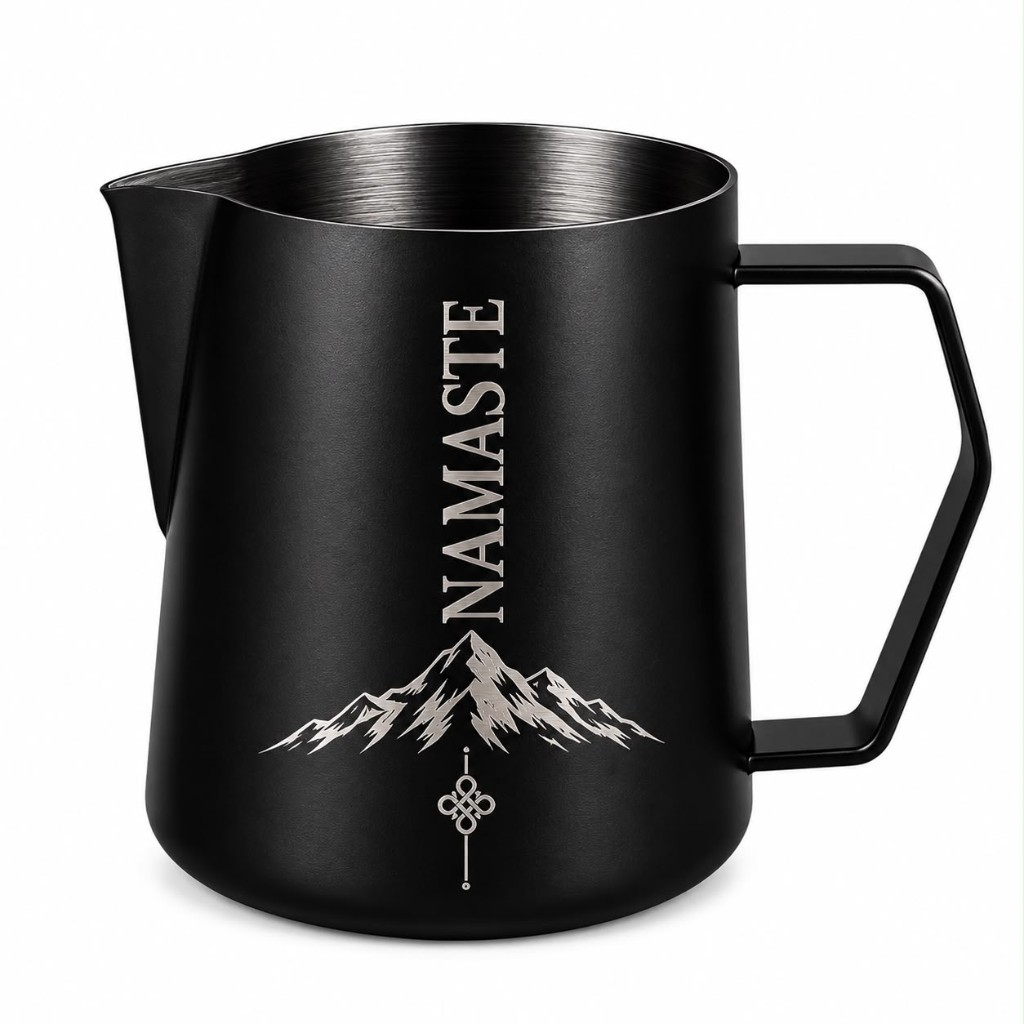
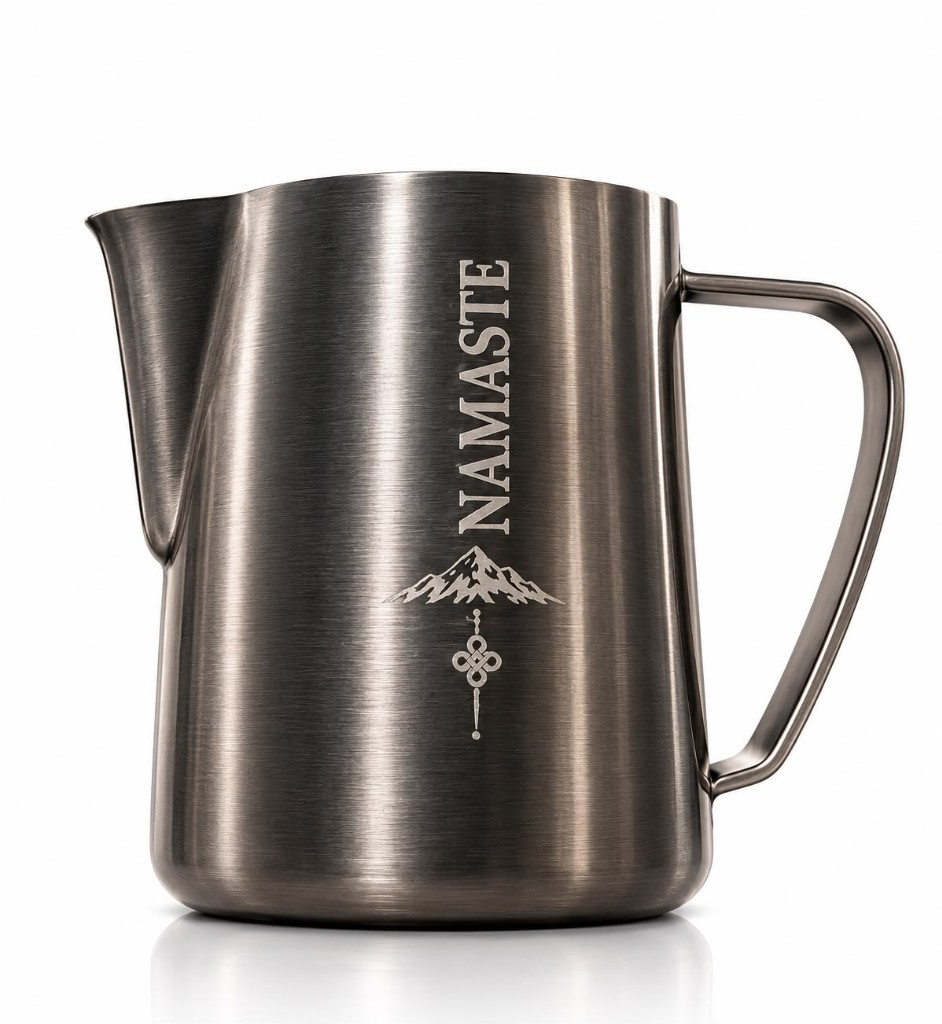
Show Himba Gear and Namaste pitchers at 150 AED in 700 ml and 615 ml.

diff --git a/himba-coffee/components/store/StoreCatalog.tsx b/himba-coffee/components/store/StoreCatalog.tsx
@@ -131,6 +131,7 @@ export function StoreCatalog() {
   const [tab, setTab] = useState<ArrivalTab>("featured");
   const [open, setOpen] = useState<CatalogProduct | null>(null);
   const [activeImage, setActiveImage] = useState("");
+  const [selection, setSelection] = useState<Record<string, string>>({});
 
   const endOfDay = useMemo(() => {
     const date = new Date();
@@ -168,10 +169,16 @@ export function StoreCatalog() {
 
   function openProduct(product: CatalogProduct) {
     setActiveImage(product.image);
+    setSelection({});
     setOpen(product);
   }
 
-  const orderUrl = open ? buildWhatsAppCatalogOrderUrl(open) : "#";
+  const missingSize = Boolean(
+    open?.options?.some((opt) => opt.required && !selection[opt.kind]),
+  );
+  const orderUrl = open
+    ? buildWhatsAppCatalogOrderUrl(open, selection)
+    : "#";
 
   return (
     <div className="bg-[#F3F3F3] text-[#1a1a1a]">
@@ -245,8 +252,8 @@ export function StoreCatalog() {
               </div>
             </div>
             <Image
-              src="/products/pitcher-yak.png"
-              alt="Himba Himalayan Yak pitcher"
+              src="/products/pitcher-himba-gear-lifestyle.jpg"
+              alt="Himba Gear stainless pitcher"
               width={180}
               height={220}
               unoptimized
@@ -405,11 +412,53 @@ export function StoreCatalog() {
             <p className="mb-6 text-xl font-medium text-[#F2F2F2]">
               {money(open.priceAed)}
             </p>
+            {open.options?.map((opt) => (
+              <div key={opt.kind} className="mb-6">
+                <p className="mb-3 text-[11px] tracking-[0.2em] text-white/45 uppercase">
+                  {opt.label}
+                </p>
+                <div className="flex flex-wrap gap-2">
+                  {opt.choices.map((choice) => {
+                    const selected = selection[opt.kind] === choice.label;
+                    return (
+                      <button
+                        key={choice.id}
+                        type="button"
+                        aria-pressed={selected}
+                        onClick={() =>
+                          setSelection((prev) => ({
+                            ...prev,
+                            [opt.kind]: choice.label,
+                          }))
+                        }
+                        className={cn(
+                          "inline-flex h-10 items-center border px-4 text-xs tracking-[0.14em] uppercase",
+                          selected
+                            ? "border-white bg-white text-[#0A0A0A]"
+                            : "border-white/20 text-white/70 hover:border-white/45 hover:text-white",
+                        )}
+                      >
+                        {choice.label}
+                      </button>
+                    );
+                  })}
+                </div>
+              </div>
+            ))}
             <a
-              href={orderUrl}
+              href={missingSize ? undefined : orderUrl}
               target="_blank"
               rel="noopener noreferrer"
-              className="inline-flex h-12 w-full items-center justify-center gap-2 bg-[#F2F2F2] text-[11px] font-medium tracking-[0.16em] text-[#0A0A0A] uppercase hover:bg-white"
+              aria-disabled={missingSize}
+              onClick={(event) => {
+                if (missingSize) event.preventDefault();
+              }}
+              className={cn(
+                "inline-flex h-12 w-full items-center justify-center gap-2 text-[11px] font-medium tracking-[0.16em] uppercase",
+                missingSize
+                  ? "cursor-not-allowed border border-white/10 text-white/25"
+                  : "bg-[#F2F2F2] text-[#0A0A0A] hover:bg-white",
+              )}
             >
               <MessageCircle className="h-4 w-4" />
               Order via WhatsApp

diff --git a/himba-coffee/lib/catalog.ts b/himba-coffee/lib/catalog.ts
@@ -46,6 +46,18 @@ export const PRODUCT_CATEGORIES: ProductCategory[] = [
   },
 ];
 
+const PITCHER_SIZES: CatalogProduct["options"] = [
+  {
+    kind: "size",
+    label: "Size",
+    required: true,
+    choices: [
+      { id: "700", label: "700 ml" },
+      { id: "615", label: "615 ml" },
+    ],
+  },
+];
+
 export const CATALOG_PRODUCTS: CatalogProduct[] = [
   {
     id: "tumbler-matte-black",
@@ -108,22 +120,30 @@ export const CATALOG_PRODUCTS: CatalogProduct[] = [
   {
     id: "pitcher-namaste",
     name: "Pitcher — Namaste",
-    priceAed: 170,
-    category: "brewing",
-    description:
-      "Matte black milk frothing pitcher with laser-etched Namaste mountain mark — built for latte art.",
-    image: "/products/pitcher-namaste.png",
-    gallery: ["/products/pitcher-namaste.png"],
-  },
-  {
-    id: "pitcher-yak",
-    name: "Pitcher — Himalayan Yak",
     priceAed: 150,
     category: "brewing",
     description:
-      "Matte black milk frothing pitcher with a white Himalayan yak mark — precision spout for latte art.",
-    image: "/products/pitcher-yak.png",
-    gallery: ["/products/pitcher-yak.png"],
+      "Brushed stainless milk pitcher with a Namaste mountain mark. Available in 700 ml and 615 ml.",
+    image: "/products/pitcher-namaste.png",
+    gallery: [
+      "/products/pitcher-namaste.png",
+      "/products/pitcher-namaste-lifestyle.jpg",
+    ],
+    options: PITCHER_SIZES,
+  },
+  {
+    id: "pitcher-yak",
+    name: "Pitcher — Himba Gear",
+    priceAed: 150,
+    category: "brewing",
+    description:
+      "Brushed stainless milk pitcher with the Himba Gear mark. Available in 700 ml and 615 ml.",
+    image: "/products/pitcher-himba-gear.png",
+    gallery: [
+      "/products/pitcher-himba-gear.png",
+      "/products/pitcher-himba-gear-lifestyle.jpg",
+    ],
+    options: PITCHER_SIZES,
   },
   {
     id: "v60-pot",
